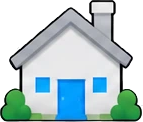
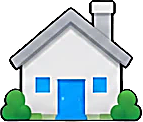
Property art 10% smaller and sharpened (unsharp mask on the source images)
Claude-Session: https://claude.ai/code/session_01EuN63CBabUhHG8UqQFvBhT

diff --git a/apps/client/src/props.ts b/apps/client/src/props.ts
@@ -113,6 +113,9 @@ export function propCanvas(key: PropKey, color: string): HTMLCanvasElement | nul
   return cv;
 }
 
+/** Property images fill this much of their box (bottom-aligned), leaving a little room. */
+const PROP_SCALE = 0.9;
+
 /**
  * Draw a property image fitted into a `w` x `h` box centered on (x, y), its bottom on the box's
  * bottom edge. Returns false if the images are not loaded yet.
@@ -128,7 +131,7 @@ export function drawProp(
 ): boolean {
   const cv = propCanvas(key, color);
   if (!cv) return false;
-  const k = Math.min(w / cv.width, h / cv.height);
+  const k = Math.min(w / cv.width, h / cv.height) * PROP_SCALE;
   const dw = cv.width * k;
   const dh = cv.height * k;
   ctx.save();
